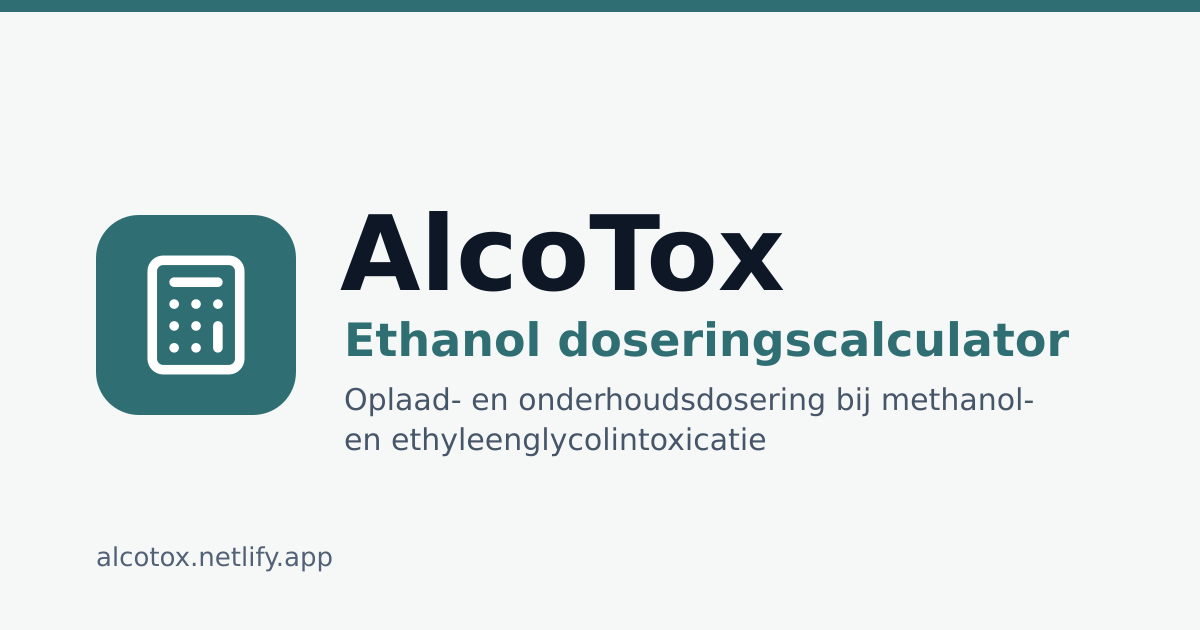
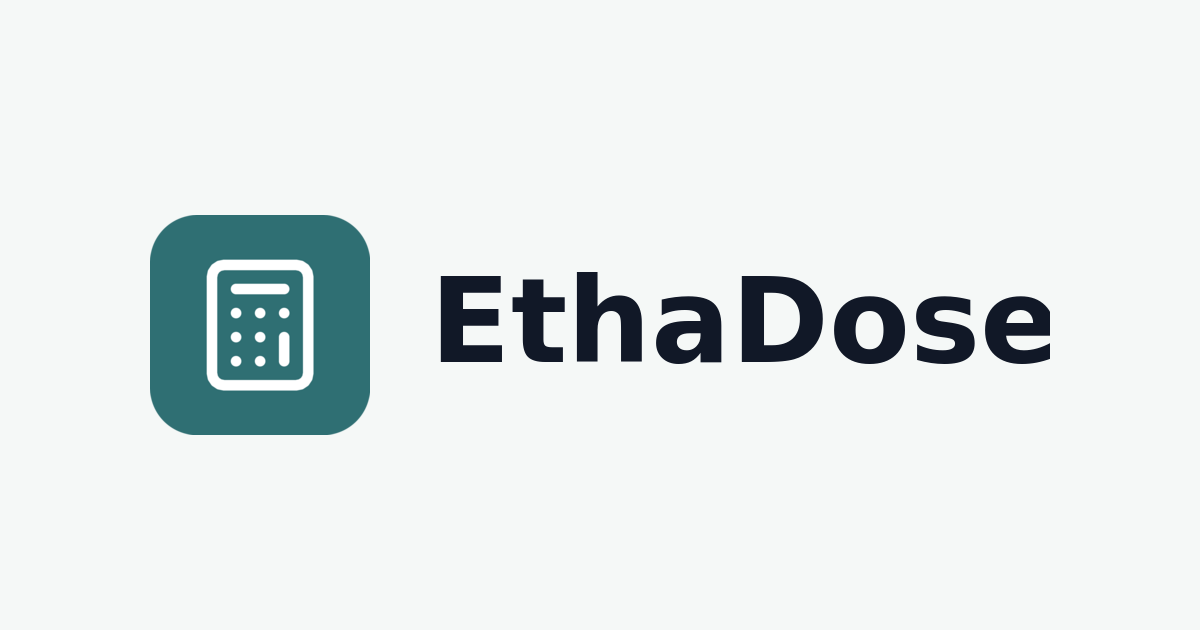
mv alcotox naar ethadose

Changed region(s): [[0.0617, 0.3317, 0.8942, 0.7238], [0.0, 0.0, 1.0, 0.0302], [0.0617, 0.8746, 0.2775, 0.9048]]

diff --git a/app/voorwaarden/page.tsx b/app/voorwaarden/page.tsx
@@ -6,9 +6,9 @@ import { REFERENCE } from "@/features/calculator/content";
 import { LEGAL_LAST_UPDATED, SITE_URL } from "@/lib/site";
 
 export const metadata: Metadata = {
-  title: "Gebruiksvoorwaarden - AlcoTox",
+  title: "Gebruiksvoorwaarden - EthaDose",
   description:
-    "Gebruiksvoorwaarden en medische disclaimer van AlcoTox, een rekenhulp voor ethanoldosering bij methanol- of ethyleenglycolintoxicatie.",
+    "Gebruiksvoorwaarden en medische disclaimer van EthaDose, een rekenhulp voor ethanoldosering bij methanol- of ethyleenglycolintoxicatie.",
   alternates: { canonical: `${SITE_URL}/voorwaarden/` },
 };
 
@@ -16,11 +16,11 @@ export default function VoorwaardenPage() {
   return (
     <ContentPage
       title="Gebruiksvoorwaarden"
-      intro={`Door AlcoTox te gebruiken ga je akkoord met onderstaande voorwaarden. Laatst bijgewerkt: ${LEGAL_LAST_UPDATED}.`}
+      intro={`Door EthaDose te gebruiken ga je akkoord met onderstaande voorwaarden. Laatst bijgewerkt: ${LEGAL_LAST_UPDATED}.`}
     >
-      <ContentSection title="Over AlcoTox">
+      <ContentSection title="Over EthaDose">
         <p>
-          AlcoTox is een gratis rekenhulp die de oplaaddosis en
+          EthaDose is een gratis rekenhulp die de oplaaddosis en
           onderhoudsdosering ethanol berekent als antidotum bij een methanol- of
           ethyleenglycolintoxicatie en deze omrekent naar een infuusvolume. De
           berekening gebeurt volledig lokaal in je browser.
@@ -29,7 +29,7 @@ export default function VoorwaardenPage() {
 
       <ContentSection title="Geen behandelprotocol of medisch advies">
         <p>
-          AlcoTox is een berekeningshulpmiddel, geen behandelprotocol en geen
+          EthaDose is een berekeningshulpmiddel, geen behandelprotocol en geen
           vervanging van klinisch oordeel. De app bepaalt niet of behandeling
           met ethanol of dialyse nodig is. De uitkomsten zijn uitsluitend bedoeld
           ter ondersteuning; de behandelend zorgprofessional blijft volledig
@@ -43,7 +43,7 @@ export default function VoorwaardenPage() {
 
       <ContentSection title="Bedoeld gebruik">
         <p>
-          AlcoTox is bedoeld voor bevoegde zorgprofessionals, zoals
+          EthaDose is bedoeld voor bevoegde zorgprofessionals, zoals
           ziekenhuisapothekers, klinisch toxicologen en SEH- en IC-clinici. De
           app is niet bedoeld voor patiënten of als zelfhulpmiddel.
         </p>
@@ -56,13 +56,13 @@ export default function VoorwaardenPage() {
           <Link href="/validatie/" className="text-primary underline-offset-4 hover:underline">
             validatie
           </Link>
-          ). Toch wordt AlcoTox aangeboden &quot;zoals het is&quot;, zonder enige
+          ). Toch wordt EthaDose aangeboden &quot;zoals het is&quot;, zonder enige
           garantie op juistheid, volledigheid of geschiktheid voor een specifiek
           doel.
         </p>
         <p>
           De beheerder aanvaardt geen aansprakelijkheid voor schade die voortvloeit
-          uit het gebruik van of het vertrouwen op AlcoTox. Gebruik is op eigen
+          uit het gebruik van of het vertrouwen op EthaDose. Gebruik is op eigen
           risico en onder eigen professionele verantwoordelijkheid.
         </p>
       </ContentSection>

diff --git a/src/features/calculator/content.ts b/src/features/calculator/content.ts
@@ -22,20 +22,20 @@ export const SOURCE_SECTIONS: SourceSection[] = [
     title: "Waarom ethanol",
     paragraphs: [
       "Ethanol concurreert met methanol en ethyleenglycol om alcoholdehydrogenase. Bij voldoende ethanol worden minder toxische metabolieten gevormd. Daarom wordt ethanol als antidotum gebruikt.",
-      "Bij ernstige intoxicaties kan dialyse nodig zijn. Omdat dialyse de klaring verhoogt, berekent AlcoTox een aparte onderhoudsdosering tijdens dialyse.",
+      "Bij ernstige intoxicaties kan dialyse nodig zijn. Omdat dialyse de klaring verhoogt, berekent EthaDose een aparte onderhoudsdosering tijdens dialyse.",
     ],
   },
   {
     title: "Wanneer gebruiken",
     paragraphs: [
-      "Gebruik AlcoTox wanneer een ethanolspiegel bekend is en je een dosering wilt omrekenen naar een infuusvolume. De app berekent de oplaaddosis en de onderhoudsdosering, ook tijdens dialyse.",
+      "Gebruik EthaDose wanneer een ethanolspiegel bekend is en je een dosering wilt omrekenen naar een infuusvolume. De app berekent de oplaaddosis en de onderhoudsdosering, ook tijdens dialyse.",
       "De app bepaalt niet of ethanol of dialyse nodig is. Die beslissing blijft bij het lokale protocol en het klinisch oordeel.",
     ],
   },
   {
     title: "Rekenmethode",
     paragraphs: [
-      "De streefconcentratie is 1000 mg/L. De oplaaddosis vult alleen het verschil aan tussen de gemeten en de gekozen streefwaarde. Ligt de gemeten waarde daar al op of boven, dan toont AlcoTox geen oplaaddosis.",
+      "De streefconcentratie is 1000 mg/L. De oplaaddosis vult alleen het verschil aan tussen de gemeten en de gekozen streefwaarde. Ligt de gemeten waarde daar al op of boven, dan toont EthaDose geen oplaaddosis.",
       "De onderhoudsdosering gebruikt gewicht, Vmax en Km. Bij chronisch alcoholgebruik geldt een hogere Vmax. Bij dialyse telt extra klaring mee. De infuusconcentratie bepaalt de omrekening van mg ethanol naar ml.",
     ],
   },
@@ -51,29 +51,29 @@ export const SOURCE_SECTIONS: SourceSection[] = [
 // Concise question/answer pairs for FAQPage structured data (GEO).
 export const FAQ: { question: string; answer: string }[] = [
   {
-    question: "Waarvoor dient AlcoTox?",
+    question: "Waarvoor dient EthaDose?",
     answer:
-      "AlcoTox berekent een oplaaddosis en onderhoudsdosering ethanol als antidotum bij een methanol- of ethyleenglycolintoxicatie, en rekent de dosis om naar een infuusvolume. Het is een berekeningshulpmiddel, geen behandelprotocol.",
+      "EthaDose berekent een oplaaddosis en onderhoudsdosering ethanol als antidotum bij een methanol- of ethyleenglycolintoxicatie, en rekent de dosis om naar een infuusvolume. Het is een berekeningshulpmiddel, geen behandelprotocol.",
   },
   {
-    question: "Hoe berekent AlcoTox de oplaaddosis ethanol?",
+    question: "Hoe berekent EthaDose de oplaaddosis ethanol?",
     answer:
       "De oplaaddosis is het verdelingsvolume maal het gewicht maal het verschil tussen de streefconcentratie en de gemeten ethanolconcentratie: Vd x gewicht x max(0, Cdoel - Cethanol). Ligt de gemeten ethanolwaarde al op of boven de streefwaarde, dan is geen oplaaddosis nodig.",
   },
   {
     question: "Waarom is de streefconcentratie 1000 mg/L?",
     answer:
-      "1000 mg/L (ongeveer 1,0 promille) is de streefwaarde uit het bronartikel. Lokale protocollen kunnen een hogere streefwaarde gebruiken, bijvoorbeeld 1,5 promille. In AlcoTox is de streefconcentratie daarom instelbaar.",
+      "1000 mg/L (ongeveer 1,0 promille) is de streefwaarde uit het bronartikel. Lokale protocollen kunnen een hogere streefwaarde gebruiken, bijvoorbeeld 1,5 promille. In EthaDose is de streefconcentratie daarom instelbaar.",
   },
   {
-    question: "Hoe berekent AlcoTox de onderhoudsdosering?",
+    question: "Hoe berekent EthaDose de onderhoudsdosering?",
     answer:
       "De onderhoudsdosering volgt Michaelis-Menten-kinetiek: 1000 x Vmax x gewicht / (Km + Cdoel), met Km 138 mg/L. Voor chronische drinkers wordt een hogere Vmax gebruikt dan voor niet-drinkers.",
   },
   {
     question: "Wat verandert er tijdens dialyse?",
     answer:
-      "Tijdens dialyse telt AlcoTox extra klaring (150 mg/kg/uur) op bij de Vmax, waardoor een hogere onderhoudsdosering nodig is om de streefconcentratie te behouden.",
+      "Tijdens dialyse telt EthaDose extra klaring (150 mg/kg/uur) op bij de Vmax, waardoor een hogere onderhoudsdosering nodig is om de streefconcentratie te behouden.",
   },
   {
     question:

diff --git a/src/features/calculator/CalculatorScreen.tsx b/src/features/calculator/CalculatorScreen.tsx
@@ -152,7 +152,7 @@ export function CalculatorScreen() {
             </div>
             <div className="flex flex-1 flex-col gap-1">
               <h1 className="text-title-xl font-bold text-foreground">
-                AlcoTox
+                EthaDose
               </h1>
               <p className="text-caption text-icon-muted">
                 Ethanol doseringshulp
@@ -220,7 +220,7 @@ export function CalculatorScreen() {
                 {dialysis ? (
                   <InlineNotice
                     icon={Activity}
-                    text={`Tijdens dialyse telt AlcoTox ${CALCULATOR_CONSTANTS.dialysisClearanceMgKgHour} mg/kg/uur extra klaring bij Vmax op.`}
+                    text={`Tijdens dialyse telt EthaDose ${CALCULATOR_CONSTANTS.dialysisClearanceMgKgHour} mg/kg/uur extra klaring bij Vmax op.`}
                   />
                 ) : null}
               </div>
@@ -459,7 +459,7 @@ function DoseSettings({
       {targetMode === "custom" ? (
         <NumberField
           id="custom-target"
-          label="Custom streefconcentratie"
+          label="Streefconcentratie"
           unit="mg/L"
           value={customTargetEthanolMgPerL}
           onChange={onCustomTargetChange}
@@ -719,7 +719,7 @@ function FormulaPanel({
         {currentEthanolMgPerL !== null &&
         currentEthanolMgPerL >= settings.targetEthanolMgPerL ? (
           <p className="text-body-sm text-muted-foreground">
-            Boven de streefconcentratie is doseren niet nodig. AlcoTox toont dan
+            Boven de streefconcentratie is doseren niet nodig. EthaDose toont dan
             geen oplaad- en geen onderhoudsdosering.
           </p>
         ) : null}
@@ -789,7 +789,7 @@ function SourceModal({
 
           <div className="rounded-md bg-panel-soft p-3">
             <p className="text-caption text-muted-foreground">
-              Deze tekst verklaart de berekening. AlcoTox is geen
+              Deze tekst verklaart de berekening. EthaDose is geen
               behandelprotocol.
             </p>
           </div>
@@ -818,7 +818,7 @@ function Footer() {
             <Calculator className="size-4 text-primary-dark" strokeWidth={1.75} />
           </span>
           <span className="text-body-sm font-semibold text-foreground">
-            AlcoTox
+            EthaDose
           </span>
         </div>
         <nav className="flex flex-wrap gap-x-5 gap-y-1.5">
@@ -841,7 +841,7 @@ function Footer() {
 
       <div className="flex flex-col gap-1 border-t border-border pt-4">
         <p className="text-caption text-muted-foreground">
-          AlcoTox is een berekeningshulpmiddel, geen behandelprotocol.
+          EthaDose is een berekeningshulpmiddel, geen behandelprotocol.
         </p>
         <p className="text-caption text-muted-foreground">Bron: {REFERENCE}</p>
       </div>

diff --git a/app/privacy/page.tsx b/app/privacy/page.tsx
@@ -5,9 +5,9 @@ import { ContentPage, ContentSection } from "@/components/ContentPage";
 import { LEGAL_LAST_UPDATED, SITE_URL } from "@/lib/site";
 
 export const metadata: Metadata = {
-  title: "Privacyverklaring - AlcoTox",
+  title: "Privacyverklaring - EthaDose",
   description:
-    "Privacyverklaring van AlcoTox. De calculator rekent volledig lokaal in je browser. Ingevoerde gegevens verlaten je apparaat niet en worden niet opgeslagen of verzonden.",
+    "Privacyverklaring van EthaDose. De calculator rekent volledig lokaal in je browser. Ingevoerde gegevens verlaten je apparaat niet en worden niet opgeslagen of verzonden.",
   alternates: { canonical: `${SITE_URL}/privacy/` },
 };
 
@@ -15,11 +15,11 @@ export default function PrivacyPage() {
   return (
     <ContentPage
       title="Privacyverklaring"
-      intro={`AlcoTox is gebouwd om met zo min mogelijk gegevens te werken. Laatst bijgewerkt: ${LEGAL_LAST_UPDATED}.`}
+      intro={`EthaDose is gebouwd om met zo min mogelijk gegevens te werken. Laatst bijgewerkt: ${LEGAL_LAST_UPDATED}.`}
     >
       <ContentSection title="Lokale verwerking">
         <p>
-          AlcoTox rekent volledig lokaal in je browser. De waarden die je invult,
+          EthaDose rekent volledig lokaal in je browser. De waarden die je invult,
           zoals gewicht en gemeten ethanolconcentratie, blijven op je apparaat.
           Ze worden niet naar een server gestuurd, niet opgeslagen en niet door
           ons ingezien.
@@ -35,7 +35,7 @@ export default function PrivacyPage() {
 
       <ContentSection title="Geen analyse of tracking">
         <p>
-          AlcoTox gebruikt geen analytics, advertenties of trackingdiensten en
+          EthaDose gebruikt geen analytics, advertenties of trackingdiensten en
           maakt geen gebruikersprofielen aan. Zie ook de{" "}
           <Link
             href="/cookies/"
@@ -60,7 +60,7 @@ export default function PrivacyPage() {
       <ContentSection title="Patiëntgegevens">
         <p>
           Voer geen direct identificerende patiëntgegevens in. Dat is voor de
-          berekening ook niet nodig: AlcoTox heeft alleen klinische waarden zoals
+          berekening ook niet nodig: EthaDose heeft alleen klinische waarden zoals
           gewicht en ethanolconcentratie nodig.
         </p>
       </ContentSection>

diff --git a/app/cookies/page.tsx b/app/cookies/page.tsx
@@ -5,9 +5,9 @@ import { ContentPage, ContentSection } from "@/components/ContentPage";
 import { LEGAL_LAST_UPDATED, SITE_URL } from "@/lib/site";
 
 export const metadata: Metadata = {
-  title: "Cookieverklaring - AlcoTox",
+  title: "Cookieverklaring - EthaDose",
   description:
-    "Cookieverklaring van AlcoTox. AlcoTox gebruikt geen tracking-, analyse- of advertentiecookies, dus cookietoestemming is niet nodig.",
+    "Cookieverklaring van EthaDose. EthaDose gebruikt geen tracking-, analyse- of advertentiecookies, dus cookietoestemming is niet nodig.",
   alternates: { canonical: `${SITE_URL}/cookies/` },
 };
 
@@ -15,11 +15,11 @@ export default function CookiesPage() {
   return (
     <ContentPage
       title="Cookieverklaring"
-      intro={`Kort en duidelijk: AlcoTox plaatst geen tracking-cookies. Laatst bijgewerkt: ${LEGAL_LAST_UPDATED}.`}
+      intro={`EthaDose plaatst geen tracking-cookies. Laatst bijgewerkt: ${LEGAL_LAST_UPDATED}.`}
     >
       <ContentSection title="Geen tracking-cookies">
         <p>
-          AlcoTox gebruikt geen cookies voor tracking, analyse of advertenties en
+          EthaDose gebruikt geen cookies voor tracking, analyse of advertenties en
           plaatst geen cookies van derden. Daarom is er geen cookiebanner of
           cookietoestemming nodig.
         </p>
@@ -42,7 +42,7 @@ export default function CookiesPage() {
           >
             privacyverklaring
           </Link>{" "}
-          voor hoe AlcoTox met gegevens omgaat.
+          voor hoe EthaDose met gegevens omgaat.
         </p>
       </ContentSection>
     </ContentPage>

diff --git a/app/validatie/page.tsx b/app/validatie/page.tsx
@@ -10,9 +10,9 @@ import {
 import { SITE_URL } from "@/lib/site";
 
 export const metadata: Metadata = {
-  title: "Validatie - AlcoTox",
+  title: "Validatie - EthaDose",
   description:
-    "Validatie van AlcoTox. De berekeningen worden live vergeleken met de uitkomsten van de gepubliceerde formules van Touw et al. (1993), met de formules uitgeschreven om na te rekenen.",
+    "Validatie van EthaDose. De berekeningen worden live vergeleken met de uitkomsten van de gepubliceerde formules van Touw et al. (1993), met de formules uitgeschreven om na te rekenen.",
   alternates: { canonical: `${SITE_URL}/validatie/` },
 };
 
@@ -28,7 +28,7 @@ export default function ValidatiePage() {
   return (
     <ContentPage
       title="Validatie"
-      intro="AlcoTox volgt de formules uit het artikel van Touw et al. (1993). Het eerste voorbeeld is de casus uit het artikel zelf. De andere voorbeelden passen dezelfde formules toe op andere profielen en op dialyse. Alle uitkomsten zijn live berekend met dezelfde functies als de calculator, met de formules uitgeschreven zodat je ze met een rekenmachine kunt narekenen."
+      intro="EthaDose volgt de formules uit het artikel van Touw et al. (1993). Het eerste voorbeeld is de casus uit het artikel zelf. De andere voorbeelden passen dezelfde formules toe op andere profielen en op dialyse. Alle uitkomsten zijn live berekend met dezelfde functies als de calculator, met de formules uitgeschreven zodat je ze met een rekenmachine kunt narekenen."
     >
       <div
         className={`flex items-center gap-3 rounded-lg border p-4 ${
@@ -73,7 +73,7 @@ export default function ValidatiePage() {
           75 mg/kg/uur voor een niet-drinker en 175 mg/kg/uur voor een chronische
           drinker. Vd is 0,7 L/kg voor een man en 0,6 L/kg voor een vrouw. De
           ml-uitkomsten zijn afhankelijk van de gekozen bereiding. Standaard rekent
-          AlcoTox met 100 g/L, oftewel 50 g ethanol in 500 ml totaal volume.
+          EthaDose met 100 g/L, oftewel 50 g ethanol in 500 ml totaal volume.
         </p>
       </ContentSection>
 

diff --git a/src/lib/site.ts b/src/lib/site.ts
@@ -1,14 +1,14 @@
 export const SITE_URL = (
-  process.env.NEXT_PUBLIC_SITE_URL ?? "https://alcotox.netlify.app"
+  process.env.NEXT_PUBLIC_SITE_URL ?? "https://ethadose.netlify.app"
 ).replace(/\/$/, "");
 
-export const SITE_NAME = "AlcoTox";
+export const SITE_NAME = "EthaDose";
 
 export const SITE_TITLE =
-  "AlcoTox – Ethanol doseringscalculator (methanol & ethyleenglycol)";
+  "EthaDose – Ethanol doseringscalculator (methanol & ethyleenglycol)";
 
 export const SITE_DESCRIPTION =
-  "AlcoTox berekent de oplaaddosis en onderhoudsdosering ethanol als antidotum bij methanol- of ethyleenglycolintoxicatie en zet de dosis om naar infuusvolume.";
+  "EthaDose berekent de oplaaddosis en onderhoudsdosering ethanol als antidotum bij methanol- of ethyleenglycolintoxicatie en zet de dosis om naar infuusvolume.";
 
 // Shown as "Laatst bijgewerkt" on the legal pages.
 export const LEGAL_LAST_UPDATED = "juni 2026";

diff --git a/app/globals.css b/app/globals.css
@@ -5,7 +5,7 @@
   /* Typeface */
   --font-sans: var(--font-inter), ui-sans-serif, system-ui, -apple-system, sans-serif;
 
-  /* shadcn semantic roles mapped to the AlcoTox palette */
+  /* shadcn semantic roles mapped to the EthaDose palette */
   --color-background: #f5f8f7;
   --color-foreground: #0e1726;
   --color-card: #ffffff;
@@ -26,7 +26,7 @@
   --color-input: rgba(15, 23, 42, 0.1);
   --color-ring: #2f6f73;
 
-  /* AlcoTox-specific tokens */
+  /* EthaDose-specific tokens */
   --color-primary-dark: #1f4f55;
   --color-primary-soft: rgba(47, 111, 115, 0.12);
   --color-panel-soft: #eaf2f0;

diff --git a/app/layout.tsx b/app/layout.tsx
@@ -31,7 +31,7 @@ export const metadata: Metadata = {
     "klinische toxicologie",
     "fomepizol alternatief",
   ],
-  authors: [{ name: "AlcoTox" }],
+  authors: [{ name: "EthaDose" }],
   alternates: {
     canonical: "/",
   },
@@ -47,7 +47,7 @@ export const metadata: Metadata = {
         url: "/og.png",
         width: 1200,
         height: 630,
-        alt: "AlcoTox - Ethanol doseringscalculator",
+        alt: "EthaDose - Ethanol doseringscalculator",
       },
     ],
   },

diff --git a/src/features/calculator/validation.ts b/src/features/calculator/validation.ts
@@ -58,7 +58,7 @@ const CASES: ValidationCase[] = [
       "Oplaaddosis = Vd x gewicht x (Cdoel - Cethanol) = 0,6 x 12 x (1000 - 600) = 2880 mg",
       "Onderhoud = 1000 x Vmax x gewicht / (Km + Cdoel) = 1000 x 75 x 12 / (138 + 1000) = 790,86 mg/uur",
     ],
-    note: "Het artikel toont een oplaaddosis van 2880 mg en rondt de onderhoudsdosering af naar 800 mg/uur. AlcoTox toont de onafgeronde waarde.",
+    note: "Het artikel toont een oplaaddosis van 2880 mg en rondt de onderhoudsdosering af naar 800 mg/uur. EthaDose toont de onafgeronde waarde.",
     includeDialysis: false,
     input: {
       weightKg: 12,

diff --git a/AGENTS.md b/AGENTS.md
@@ -1,8 +1,8 @@
-# AlcoTox Agent Guide
+# EthaDose Agent Guide
 
 ## Project
 
-AlcoTox is a Next.js (App Router) web app for a local ethanol antidote calculator based on the spreadsheet and article in `context/`. It is built as a static export and deployed as static files on Netlify.
+EthaDose is a Next.js (App Router) web app for a local ethanol antidote calculator based on the spreadsheet and article in `context/`. It is built as a static export and deployed as static files on Netlify.
 
 ## General Rules
 
@@ -51,7 +51,7 @@ AlcoTox is a Next.js (App Router) web app for a local ethanol antidote calculato
 - Page metadata (title, description, Open Graph, canonical, robots) lives in `app/layout.tsx`.
 - JSON-LD structured data lives in `app/page.tsx`; FAQ/source copy is shared from `src/features/calculator/content.ts`.
 - `app/robots.ts`, `app/sitemap.ts`, and `public/llms.txt` cover crawler and AI-engine access.
-- The canonical site URL comes from `src/lib/site.ts` (`NEXT_PUBLIC_SITE_URL`, default `https://alcotox.netlify.app`).
+- The canonical site URL comes from `src/lib/site.ts` (`NEXT_PUBLIC_SITE_URL`, default `https://ethadose.netlify.app`).
 
 ## Verification
 

diff --git a/CLAUDE.md b/CLAUDE.md
@@ -1,8 +1,8 @@
-# AlcoTox Agent Guide
+# EthaDose Agent Guide
 
 ## Project
 
-AlcoTox is a Next.js (App Router) web app for a local ethanol antidote calculator based on the spreadsheet and article in `context/`. It is built as a static export and deployed as static files on Netlify.
+EthaDose is a Next.js (App Router) web app for a local ethanol antidote calculator based on the spreadsheet and article in `context/`. It is built as a static export and deployed as static files on Netlify.
 
 ## General Rules
 
@@ -51,7 +51,7 @@ AlcoTox is a Next.js (App Router) web app for a local ethanol antidote calculato
 - Page metadata (title, description, Open Graph, canonical, robots) lives in `app/layout.tsx`.
 - JSON-LD structured data lives in `app/page.tsx`; FAQ/source copy is shared from `src/features/calculator/content.ts`.
 - `app/robots.ts`, `app/sitemap.ts`, and `public/llms.txt` cover crawler and AI-engine access.
-- The canonical site URL comes from `src/lib/site.ts` (`NEXT_PUBLIC_SITE_URL`, default `https://alcotox.netlify.app`).
+- The canonical site URL comes from `src/lib/site.ts` (`NEXT_PUBLIC_SITE_URL`, default `https://ethadose.netlify.app`).
 
 ## Verification
 